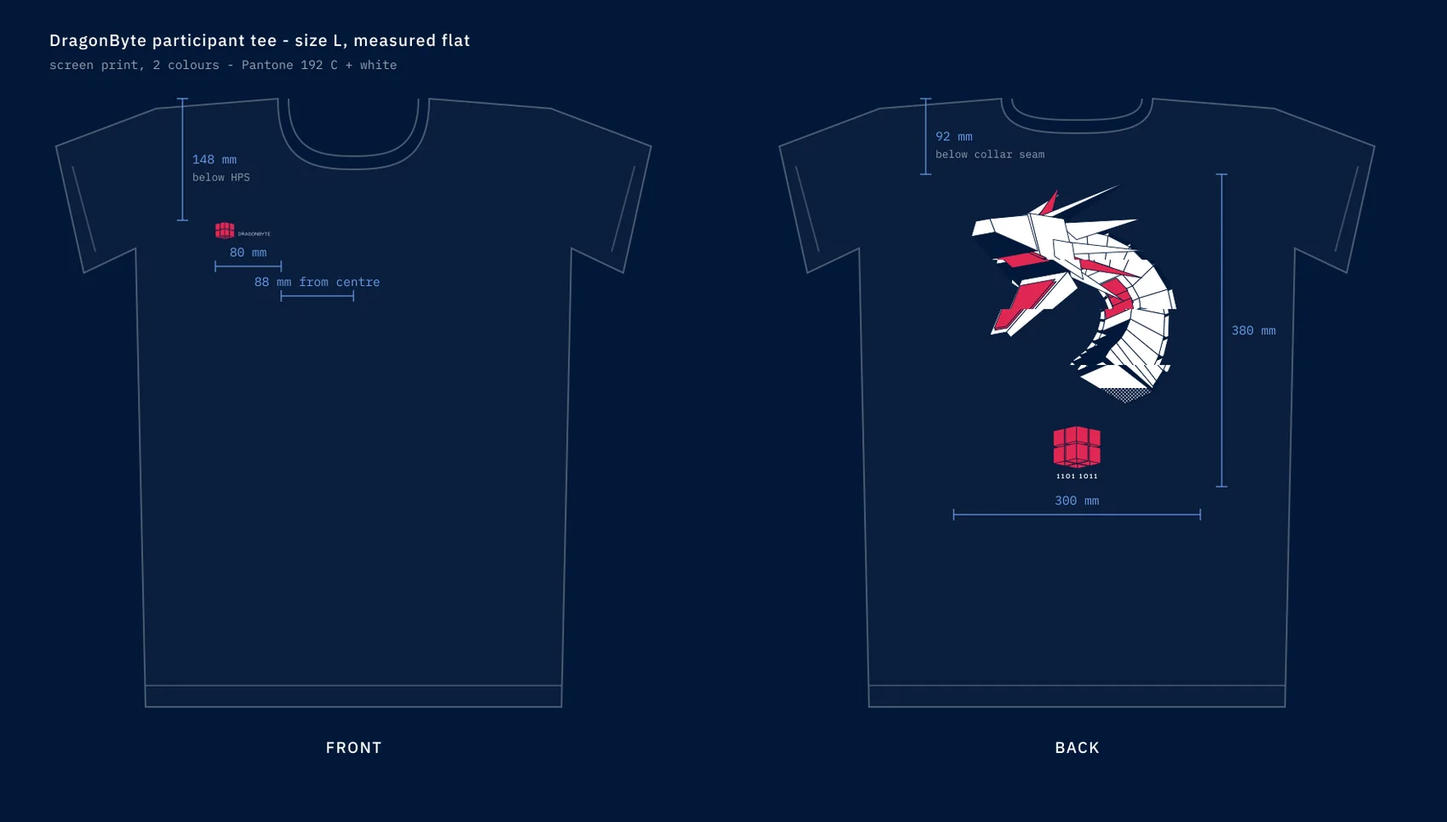
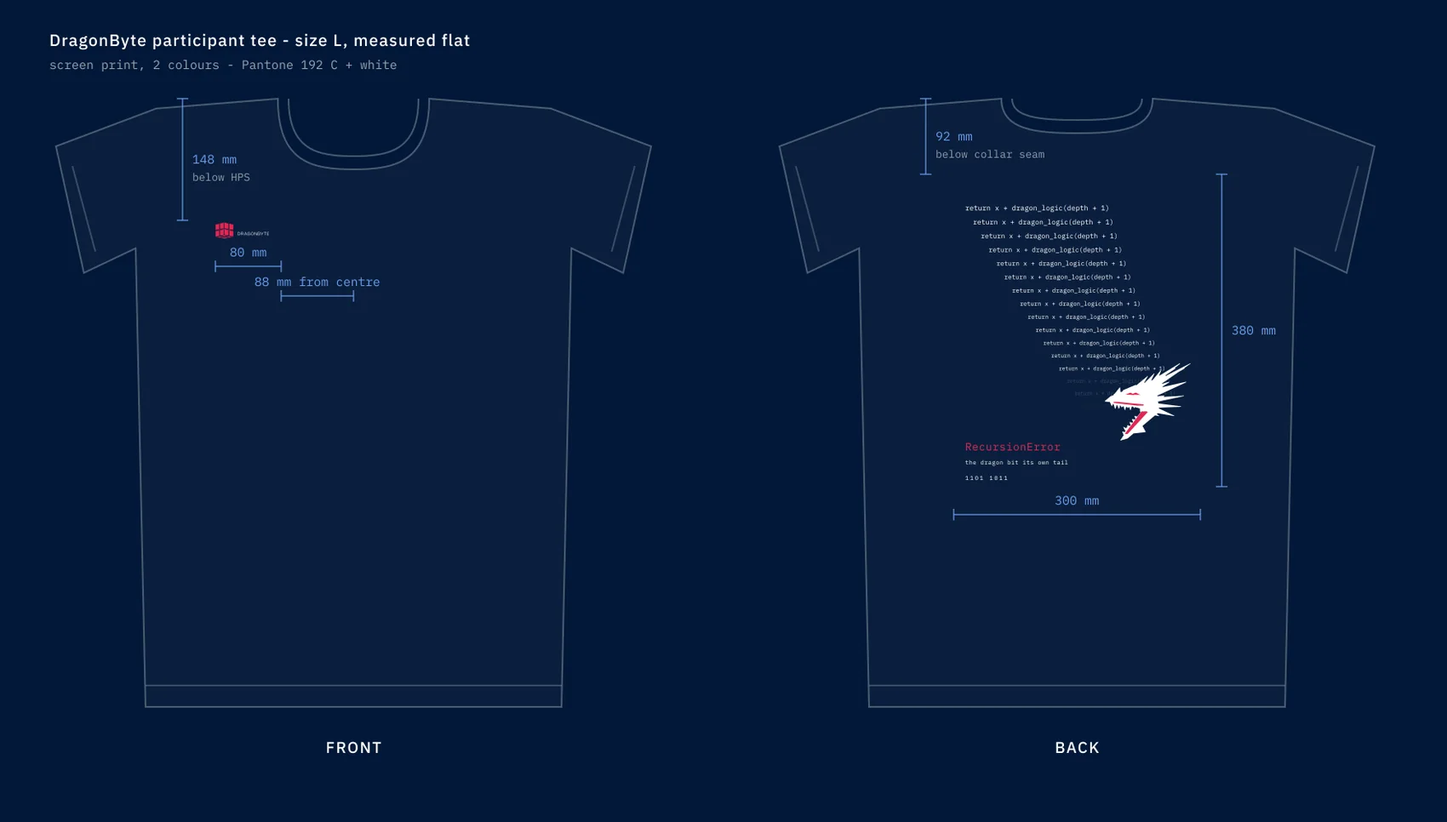
wincentdragonbyte: tričko po novom - grafikou je vtip, zásobník volaní a hlava draka
Claude-Session: https://claude.ai/code/session_01H8JWfyXzGm1E99R4ciV8hV

Changed region(s): [[0.6547, 0.2174, 0.8106, 0.5901], [0.1559, 0.2795, 0.1871, 0.3106]]

diff --git a/wincentdragonbyte/index.html b/wincentdragonbyte/index.html
@@ -304,13 +304,13 @@ footer{border-top:1px solid var(--line);padding:28px 0 44px;font-size:14px;line-
 <section id="task-2" class="dark"><div class="wrap sec">
 <span class="mono kick">Task 2 · T-shirt</span>
 <h2 class="" style="margin:0;width:calc(9.1795 * clamp(28px, 3.3vw, 44px));max-width:100%"><svg role="img" aria-label="Merchandise people actually wear." viewBox="0 0 9180 2080" style="display:block;width:100%;height:auto;overflow:visible"><path fill="rgba(255,255,255,.88)" d="M857.2 65V780H780.2V136L503.8 780H397.2L123.8 136.2V780H48.2V65H175L451.5 717.5L730.8 65Z M1435.8 603Q1424.2 648.5 1401.8 684.1Q1379.2 719.8 1347.8 744.4Q1316.2 769 1276.5 782Q1236.8 795 1190.5 795Q1151 795 1116 785.5Q1081 776 1051.6 758.1Q1022.2 740.2 998.9 714.6Q975.5 689 959.4 656.6Q943.2 624.2 934.6 585.6Q926 547 926 503.5Q926 460 934.5 421.8Q943 383.5 959 351.2Q975 319 998.1 293.5Q1021.2 268 1050.2 250.2Q1079.2 232.5 1113.9 223.1Q1148.5 213.8 1187.8 213.8Q1243.5 213.8 1289.5 233.4Q1335.5 253 1368.5 289.4Q1401.5 325.8 1419.8 377.6Q1438 429.5 1438 494Q1438 502.5 1437.8 511.2Q1437.5 520 1436.5 530H1001.2Q1004.5 575.2 1019.2 611.8Q1034 648.2 1058.8 674Q1083.5 699.8 1117.2 713.5Q1151 727.2 1192.2 727.2Q1254.2 727.2 1296.5 695.9Q1338.8 664.5 1361.2 603ZM1362.2 465Q1358.8 421.5 1344.9 387.4Q1331 353.2 1308.5 329.8Q1286 306.2 1255.5 293.9Q1225 281.5 1188 281.5Q1149.2 281.5 1117.2 294.2Q1085.2 307 1061.2 330.8Q1037.2 354.5 1022.2 388.5Q1007.2 422.5 1002.5 465Z M1578.8 780H1504.2V228.8H1578.8V408.5Q1588.2 365.5 1606.6 332.1Q1625 298.8 1652.1 275.8Q1679.2 252.8 1715.2 240.8Q1751.2 228.8 1795.8 228.8H1820.8V300.5H1795.8Q1737 300.5 1695.6 313.4Q1654.2 326.2 1628.4 352.4Q1602.5 378.5 1590.6 417.6Q1578.8 456.8 1578.8 509.2Z M1921 504.2Q1921 555.5 1934.2 596.9Q1947.5 638.2 1972.1 667.1Q1996.8 696 2031.6 711.6Q2066.5 727.2 2109.5 727.2Q2146 727.2 2175 716.2Q2204 705.2 2225.5 685.6Q2247 666 2261.1 639Q2275.2 612 2282 579.8H2356.5Q2348.8 626.5 2328.8 665.9Q2308.8 705.2 2277.4 734Q2246 762.8 2203.8 778.9Q2161.5 795 2109.2 795Q2070 795 2035.1 785.6Q2000.2 776.2 1971.1 758.4Q1942 740.5 1918.9 715Q1895.8 689.5 1879.6 657.1Q1863.5 624.8 1855 586.2Q1846.5 547.8 1846.5 504.2Q1846.5 460.8 1855 422.2Q1863.5 383.8 1879.6 351.5Q1895.8 319.2 1918.9 293.6Q1942 268 1971.1 250.2Q2000.2 232.5 2035.1 223.1Q2070 213.8 2109.2 213.8Q2161.5 213.8 2203.6 229.9Q2245.8 246 2277.1 274.5Q2308.5 303 2328.5 342.4Q2348.5 381.8 2356.2 428.2H2281.8Q2275 396.2 2260.9 369.2Q2246.8 342.2 2225.2 322.8Q2203.8 303.2 2174.9 292.4Q2146 281.5 2109.5 281.5Q2066.5 281.5 2031.6 297Q1996.8 312.5 1972.1 341.5Q1947.5 370.5 1934.2 411.6Q1921 452.8 1921 504.2Z M2497.2 780H2422.8V40H2497.2V392.5Q2507.5 351.5 2527.2 318.4Q2547 285.2 2574.5 262Q2602 238.8 2636.5 226.2Q2671 213.8 2711 213.8Q2758.5 213.8 2796.4 231.5Q2834.2 249.2 2860.9 282.4Q2887.5 315.5 2901.8 362.6Q2916 409.8 2916 468.5V780H2841.5V468.5Q2841.5 423.5 2831 388.6Q2820.5 353.8 2800.2 329.9Q2780 306 2750.2 293.8Q2720.5 281.5 2681.8 281.5Q2639.8 281.5 2605.8 295.6Q2571.8 309.8 2547.6 335.8Q2523.5 361.8 2510.4 398.6Q2497.2 435.5 2497.2 481Z M2992.8 412.5Q2992.8 367.2 3009.9 330.5Q3027 293.8 3058.8 267.9Q3090.5 242 3135.6 228Q3180.8 214 3236.5 214Q3296.2 214 3343.6 230.4Q3391 246.8 3424 277.5Q3457 308.2 3474.5 352.6Q3492 397 3492 453.2V780H3417.5V626.2Q3407.2 664 3384.8 695Q3362.2 726 3330.1 748.2Q3298 770.5 3257.9 782.8Q3217.8 795 3172.5 795Q3128.2 795 3092 783.2Q3055.8 771.5 3030.1 750.1Q3004.5 728.8 2990.5 698.6Q2976.5 668.5 2976.5 631.5Q2976.5 594.5 2991 565.6Q3005.5 536.8 3033.2 517Q3061 497.2 3101.6 487Q3142.2 476.8 3194.8 476.8H3417.5V453.2Q3417.5 413.2 3405 381.4Q3392.5 349.5 3369 327.4Q3345.5 305.2 3311.6 293.5Q3277.8 281.8 3235.2 281.8Q3194 281.8 3162.6 291.1Q3131.2 300.5 3110.1 317.5Q3089 334.5 3078.1 358.6Q3067.2 382.8 3067.2 412.5ZM3194.2 540Q3121.8 540 3085.9 562.2Q3050 584.5 3050 629.5Q3050 653 3059.5 671.6Q3069 690.2 3087.1 703.1Q3105.2 716 3131.5 722.8Q3157.8 729.5 3191.2 729.5Q3222.8 729.5 3251.8 723.6Q3280.8 717.8 3305.9 707.1Q3331 696.5 3351.6 681.5Q3372.2 666.5 3386.9 648.1Q3401.5 629.8 3409.5 608.6Q3417.5 587.5 3417.5 564.8V540Z M3643.8 780H3569.2V228.8H3643.8V392.5Q3654 351.5 3673.6 318.4Q3693.2 285.2 3720.9 262Q3748.5 238.8 3783 226.2Q3817.5 213.8 3857.2 213.8Q3904.8 213.8 3942.8 231.5Q3980.8 249.2 4007.4 282.4Q4034 315.5 4048.2 362.6Q4062.5 409.8 4062.5 468.5V780H3988V468.5Q3988 423.5 3977.5 388.6Q3967 353.8 3946.8 329.9Q3926.5 306 3896.6 293.8Q3866.8 281.5 3828 281.5Q3786.2 281.5 3752.2 295.6Q3718.2 309.8 3694.1 335.8Q3670 361.8 3656.9 398.6Q3643.8 435.5 3643.8 481Z M4647 40V780H4572.5V602.8Q4562 646.8 4542.2 682.2Q4522.5 717.8 4495.1 742.9Q4467.8 768 4433.4 781.5Q4399 795 4359.5 795Q4325.2 795 4294.6 785.4Q4264 775.8 4238.1 757.6Q4212.2 739.5 4191.5 713.6Q4170.8 687.8 4156.2 655.5Q4141.8 623.2 4134 585.1Q4126.2 547 4126.2 504.2Q4126.2 461.5 4134 423.4Q4141.8 385.2 4156.2 353Q4170.8 320.8 4191.5 295Q4212.2 269.2 4238.1 251.1Q4264 233 4294.6 223.4Q4325.2 213.8 4359.5 213.8Q4399 213.8 4433.4 227.2Q4467.8 240.8 4495.1 265.9Q4522.5 291 4542.2 326.4Q4562 361.8 4572.5 405.8V40ZM4572.5 504.2Q4572.5 453.2 4559 411.9Q4545.5 370.5 4520.8 341.1Q4496 311.8 4461 295.8Q4426 279.8 4383 279.8Q4340 279.8 4306.1 295Q4272.2 310.2 4248.9 339.1Q4225.5 368 4213.1 409.6Q4200.8 451.2 4200.8 504.2Q4200.8 557.2 4213.1 599Q4225.5 640.8 4249 669.6Q4272.5 698.5 4306.2 713.8Q4340 729 4383 729Q4426 729 4461 713Q4496 697 4520.8 667.5Q4545.5 638 4559 596.6Q4572.5 555.2 4572.5 504.2Z M4807.5 150H4720V48.2H4807.5ZM4801 780H4726.5V228.8H4801Z M5096.5 213.8Q5149 213.8 5191.2 226Q5233.5 238.2 5263.2 260.9Q5293 283.5 5309.1 315.6Q5325.2 347.8 5325.2 387.2H5252.5Q5252.5 362.8 5241.4 342.8Q5230.2 322.8 5209.9 308.5Q5189.5 294.2 5160.6 286.5Q5131.8 278.8 5096.5 278.8Q5063.8 278.8 5035.6 285.6Q5007.5 292.5 4986.9 305Q4966.2 317.5 4954.6 335.1Q4943 352.8 4943 374.2Q4943 389.8 4949.1 401.4Q4955.2 413 4965.9 421.5Q4976.5 430 4990.9 436Q5005.2 442 5021.8 446.4Q5038.2 450.8 5056.4 454Q5074.5 457.2 5092.2 460L5127 465.5Q5150.2 469.2 5175.5 473.9Q5200.8 478.5 5225 486Q5249.2 493.5 5271.2 504.8Q5293.2 516 5309.8 532.8Q5326.2 549.5 5336 572.9Q5345.8 596.2 5345.8 628Q5345.8 668 5329.5 699Q5313.2 730 5282.4 751.4Q5251.5 772.8 5206.9 783.9Q5162.2 795 5105.5 795Q5046.8 795 5001.1 783.1Q4955.5 771.2 4924.2 748.6Q4893 726 4876.6 692.9Q4860.2 659.8 4860.2 617.2H4933.2Q4933.2 644.2 4944.6 665.1Q4956 686 4977.9 700.5Q4999.8 715 5031.8 722.5Q5063.8 730 5105.2 730Q5143.8 730 5174.8 723.4Q5205.8 716.8 5227.6 704Q5249.5 691.2 5261.2 672.5Q5273 653.8 5273 629.8Q5273 611.5 5266.5 597.9Q5260 584.2 5248.5 574.2Q5237 564.2 5221.5 557.1Q5206 550 5188 544.9Q5170 539.8 5150.2 536Q5130.5 532.2 5110.8 529L5076.5 523.2Q5054.5 519.5 5030.8 515Q5007 510.5 4984 503.5Q4961 496.5 4940.4 486.2Q4919.8 476 4904.1 460.9Q4888.5 445.8 4879.2 425Q4870 404.2 4870 376Q4870 339 4886.4 309Q4902.8 279 4932.5 257.9Q4962.2 236.8 5004 225.2Q5045.8 213.8 5096.5 213.8Z M5899.8 603Q5888.2 648.5 5865.8 684.1Q5843.2 719.8 5811.8 744.4Q5780.2 769 5740.5 782Q5700.8 795 5654.5 795Q5615 795 5580 785.5Q5545 776 5515.6 758.1Q5486.2 740.2 5462.9 714.6Q5439.5 689 5423.4 656.6Q5407.2 624.2 5398.6 585.6Q5390 547 5390 503.5Q5390 460 5398.5 421.8Q5407 383.5 5423 351.2Q5439 319 5462.1 293.5Q5485.2 268 5514.2 250.2Q5543.2 232.5 5577.9 223.1Q5612.5 213.8 5651.8 213.8Q5707.5 213.8 5753.5 233.4Q5799.5 253 5832.5 289.4Q5865.5 325.8 5883.8 377.6Q5902 429.5 5902 494Q5902 502.5 5901.8 511.2Q5901.5 520 5900.5 530H5465.2Q5468.5 575.2 5483.2 611.8Q5498 648.2 5522.8 674Q5547.5 699.8 5581.2 713.5Q5615 727.2 5656.2 727.2Q5718.2 727.2 5760.5 695.9Q5802.8 664.5 5825.2 603ZM5826.2 465Q5822.8 421.5 5808.9 387.4Q5795 353.2 5772.5 329.8Q5750 306.2 5719.5 293.9Q5689 281.5 5652 281.5Q5613.2 281.5 5581.2 294.2Q5549.2 307 5525.2 330.8Q5501.2 354.5 5486.2 388.5Q5471.2 422.5 5466.5 465Z M6250.8 405.8Q6261.2 361.8 6281 326.4Q6300.8 291 6328.1 265.9Q6355.5 240.8 6389.9 227.2Q6424.2 213.8 6463.8 213.8Q6498 213.8 6528.6 223.4Q6559.2 233 6585.1 251.1Q6611 269.2 6631.8 295Q6652.5 320.8 6667 353Q6681.5 385.2 6689.2 423.4Q6697 461.5 6697 504.2Q6697 547 6689.2 585.1Q6681.5 623.2 6667 655.5Q6652.5 687.8 6631.8 713.6Q6611 739.5 6585.1 757.6Q6559.2 775.8 6528.6 785.4Q6498 795 6463.8 795Q6424.2 795 6389.9 781.5Q6355.5 768 6328.1 742.9Q6300.8 717.8 6281 682.2Q6261.2 646.8 6250.8 602.8V968.8H6176.2V228.8H6250.8ZM6250.8 504.2Q6250.8 555.2 6264.2 596.6Q6277.8 638 6302.6 667.5Q6327.5 697 6362.5 713Q6397.5 729 6440.5 729Q6483.5 729 6517.2 713.8Q6551 698.5 6574.4 669.6Q6597.8 640.8 6610.1 599Q6622.5 557.2 6622.5 504.2Q6622.5 451.2 6610.1 409.6Q6597.8 368 6574.4 339.1Q6551 310.2 6517.2 295Q6483.5 279.8 6440.5 279.8Q6397.5 279.8 6362.5 295.8Q6327.5 311.8 6302.6 341.1Q6277.8 370.5 6264.2 411.9Q6250.8 453.2 6250.8 504.2Z M7259.8 603Q7248.2 648.5 7225.8 684.1Q7203.2 719.8 7171.8 744.4Q7140.2 769 7100.5 782Q7060.8 795 7014.5 795Q6975 795 6940 785.5Q6905 776 6875.6 758.1Q6846.2 740.2 6822.9 714.6Q6799.5 689 6783.4 656.6Q6767.2 624.2 6758.6 585.6Q6750 547 6750 503.5Q6750 460 6758.5 421.8Q6767 383.5 6783 351.2Q6799 319 6822.1 293.5Q6845.2 268 6874.2 250.2Q6903.2 232.5 6937.9 223.1Q6972.5 213.8 7011.8 213.8Q7067.5 213.8 7113.5 233.4Q7159.5 253 7192.5 289.4Q7225.5 325.8 7243.8 377.6Q7262 429.5 7262 494Q7262 502.5 7261.8 511.2Q7261.5 520 7260.5 530H6825.2Q6828.5 575.2 6843.2 611.8Q6858 648.2 6882.8 674Q6907.5 699.8 6941.2 713.5Q6975 727.2 7016.2 727.2Q7078.2 727.2 7120.5 695.9Q7162.8 664.5 7185.2 603ZM7186.2 465Q7182.8 421.5 7168.9 387.4Q7155 353.2 7132.5 329.8Q7110 306.2 7079.5 293.9Q7049 281.5 7012 281.5Q6973.2 281.5 6941.2 294.2Q6909.2 307 6885.2 330.8Q6861.2 354.5 6846.2 388.5Q6831.2 422.5 6826.5 465Z M7315 504.2Q7315 460.8 7323.5 422.2Q7332 383.8 7348.1 351.5Q7364.2 319.2 7387.4 293.6Q7410.5 268 7439.8 250.2Q7469 232.5 7503.8 223.1Q7538.5 213.8 7578 213.8Q7617.5 213.8 7652.2 223.1Q7687 232.5 7716.1 250.2Q7745.2 268 7768.4 293.6Q7791.5 319.2 7807.6 351.5Q7823.8 383.8 7832.2 422.2Q7840.8 460.8 7840.8 504.2Q7840.8 547.8 7832.2 586.2Q7823.8 624.8 7807.6 657.1Q7791.5 689.5 7768.4 715Q7745.2 740.5 7716.1 758.4Q7687 776.2 7652.2 785.6Q7617.5 795 7578 795Q7538.8 795 7503.9 785.6Q7469 776.2 7439.8 758.4Q7410.5 740.5 7387.4 715Q7364.2 689.5 7348.1 657.1Q7332 624.8 7323.5 586.2Q7315 547.8 7315 504.2ZM7389.5 504.2Q7389.5 555.5 7402.8 596.9Q7416 638.2 7440.6 667.1Q7465.2 696 7500.1 711.6Q7535 727.2 7578 727.2Q7621.2 727.2 7656 711.6Q7690.8 696 7715.2 667.1Q7739.8 638.2 7753 596.9Q7766.2 555.5 7766.2 504.2Q7766.2 452.8 7753 411.6Q7739.8 370.5 7715.2 341.5Q7690.8 312.5 7656 297Q7621.2 281.5 7578 281.5Q7535 281.5 7500.1 297Q7465.2 312.5 7440.6 341.5Q7416 370.5 7402.8 411.6Q7389.5 452.8 7389.5 504.2Z M7981.5 405.8Q7992 361.8 8011.8 326.4Q8031.5 291 8058.9 265.9Q8086.2 240.8 8120.6 227.2Q8155 213.8 8194.5 213.8Q8228.8 213.8 8259.4 223.4Q8290 233 8315.9 251.1Q8341.8 269.2 8362.5 295Q8383.2 320.8 8397.8 353Q8412.2 385.2 8420 423.4Q8427.8 461.5 8427.8 504.2Q8427.8 547 8420 585.1Q8412.2 623.2 8397.8 655.5Q8383.2 687.8 8362.5 713.6Q8341.8 739.5 8315.9 757.6Q8290 775.8 8259.4 785.4Q8228.8 795 8194.5 795Q8155 795 8120.6 781.5Q8086.2 768 8058.9 742.9Q8031.5 717.8 8011.8 682.2Q7992 646.8 7981.5 602.8V968.8H7907V228.8H7981.5ZM7981.5 504.2Q7981.5 555.2 7995 596.6Q8008.5 638 8033.4 667.5Q8058.2 697 8093.2 713Q8128.2 729 8171.2 729Q8214.2 729 8248 713.8Q8281.8 698.5 8305.1 669.6Q8328.5 640.8 8340.9 599Q8353.2 557.2 8353.2 504.2Q8353.2 451.2 8340.9 409.6Q8328.5 368 8305.1 339.1Q8281.8 310.2 8248 295Q8214.2 279.8 8171.2 279.8Q8128.2 279.8 8093.2 295.8Q8058.2 311.8 8033.4 341.1Q8008.5 370.5 7995 411.9Q7981.5 453.2 7981.5 504.2Z M8568.8 780H8494.2V40H8568.8Z M9144.8 603Q9133.2 648.5 9110.8 684.1Q9088.2 719.8 9056.8 744.4Q9025.2 769 8985.5 782Q8945.8 795 8899.5 795Q8860 795 8825 785.5Q8790 776 8760.6 758.1Q8731.2 740.2 8707.9 714.6Q8684.5 689 8668.4 656.6Q8652.2 624.2 8643.6 585.6Q8635 547 8635 503.5Q8635 460 8643.5 421.8Q8652 383.5 8668 351.2Q8684 319 8707.1 293.5Q8730.2 268 8759.2 250.2Q8788.2 232.5 8822.9 223.1Q8857.5 213.8 8896.8 213.8Q8952.5 213.8 8998.5 233.4Q9044.5 253 9077.5 289.4Q9110.5 325.8 9128.8 377.6Q9147 429.5 9147 494Q9147 502.5 9146.8 511.2Q9146.5 520 9145.5 530H8710.2Q8713.5 575.2 8728.2 611.8Q8743 648.2 8767.8 674Q8792.5 699.8 8826.2 713.5Q8860 727.2 8901.2 727.2Q8963.2 727.2 9005.5 695.9Q9047.8 664.5 9070.2 603ZM9071.2 465Q9067.8 421.5 9053.9 387.4Q9040 353.2 9017.5 329.8Q8995 306.2 8964.5 293.9Q8934 281.5 8897 281.5Q8858.2 281.5 8826.2 294.2Q8794.2 307 8770.2 330.8Q8746.2 354.5 8731.2 388.5Q8716.2 422.5 8711.5 465Z"/><path fill="#E02753" d="M29.2 1475.8Q29.2 1424.2 48.1 1383.2Q67 1342.2 102.2 1313.4Q137.5 1284.5 187.9 1269.1Q238.2 1253.8 301.2 1253.8Q365.5 1253.8 415.8 1269.9Q466 1286 500.8 1316.6Q535.5 1347.2 553.8 1391.8Q572 1436.2 572 1493V1820H398V1682.5Q389.2 1717.8 370.9 1746Q352.5 1774.2 326.1 1794Q299.8 1813.8 266.4 1824.4Q233 1835 194.2 1835Q153.5 1835 120.1 1823.4Q86.8 1811.8 62.9 1790.6Q39 1769.5 26 1739.9Q13 1710.2 13 1674Q13 1634.2 28.9 1602.9Q44.8 1571.5 75.1 1550Q105.5 1528.5 149.4 1517.1Q193.2 1505.8 249 1505.8H398V1493Q398 1467.2 391.4 1447.1Q384.8 1427 371.9 1413.1Q359 1399.2 340.2 1392Q321.5 1384.8 297 1384.8Q272.5 1384.8 254.8 1391Q237 1397.2 225.4 1408.9Q213.8 1420.5 208.1 1437.4Q202.5 1454.2 202.5 1475.8ZM272.5 1599.8Q230.5 1599.8 209.1 1613.6Q187.8 1627.5 187.8 1654.8Q187.8 1682 209 1697Q230.2 1712 269.2 1712Q296.8 1712 320.2 1704.6Q343.8 1697.2 361 1684.5Q378.2 1671.8 388.1 1654.2Q398 1636.8 398 1616.5V1599.8Z M778 1544.2Q778 1578.5 785.2 1604.9Q792.5 1631.2 806.4 1649.1Q820.2 1667 840.6 1676.1Q861 1685.2 887 1685.2Q908.5 1685.2 924.8 1679Q941 1672.8 952.8 1661.2Q964.5 1649.8 972 1633.5Q979.5 1617.2 983.2 1597.2H1156.5Q1150 1650.5 1127.8 1694.2Q1105.5 1738 1070.4 1769.4Q1035.2 1800.8 988.8 1817.9Q942.2 1835 887 1835Q845.5 1835 808.2 1825.8Q771 1816.5 739.4 1798.9Q707.8 1781.2 682.4 1755.9Q657 1730.5 639.2 1698.2Q621.5 1666 612 1627.2Q602.5 1588.5 602.5 1544.2Q602.5 1500 612 1461.4Q621.5 1422.8 639.2 1390.4Q657 1358 682.4 1332.6Q707.8 1307.2 739.4 1289.8Q771 1272.2 808.2 1263Q845.5 1253.8 887 1253.8Q942.2 1253.8 988.9 1270.9Q1035.5 1288 1070.5 1319.2Q1105.5 1350.5 1127.8 1394.4Q1150 1438.2 1156.5 1491.5H983.2Q979.5 1471.5 972 1455.2Q964.5 1439 952.8 1427.5Q941 1416 924.8 1409.8Q908.5 1403.5 887 1403.5Q861 1403.5 840.6 1412.6Q820.2 1421.8 806.4 1439.5Q792.5 1457.2 785.2 1483.6Q778 1510 778 1544.2Z M1553 1815.8Q1516.2 1825.2 1484.4 1830.1Q1452.5 1835 1424.5 1835Q1329.5 1835 1281 1779.8Q1232.5 1724.5 1232.5 1615.2V1404.8H1166.5V1268.8H1232.5V1141.8H1406.5V1268.8H1553V1404.8H1406.5V1615.5Q1406.5 1659.2 1422.4 1679.2Q1438.2 1699.2 1473.5 1699.2Q1488 1699.2 1507.2 1696Q1526.5 1692.8 1553 1686.2Z M1948.2 1268.8H2122.2V1820H1948.2V1651.2Q1932 1742.2 1884.5 1788.6Q1837 1835 1760 1835Q1673.5 1835 1629.6 1774.6Q1585.8 1714.2 1585.8 1595V1268.8H1759.8V1557.5Q1759.8 1621.8 1782 1653.5Q1804.2 1685.2 1849.8 1685.2Q1897.8 1685.2 1923 1651.9Q1948.2 1618.5 1948.2 1553.5Z M2167.5 1475.8Q2167.5 1424.2 2186.4 1383.2Q2205.2 1342.2 2240.5 1313.4Q2275.8 1284.5 2326.1 1269.1Q2376.5 1253.8 2439.5 1253.8Q2503.8 1253.8 2554 1269.9Q2604.2 1286 2639 1316.6Q2673.8 1347.2 2692 1391.8Q2710.2 1436.2 2710.2 1493V1820H2536.2V1682.5Q2527.5 1717.8 2509.1 1746Q2490.8 1774.2 2464.4 1794Q2438 1813.8 2404.6 1824.4Q2371.2 1835 2332.5 1835Q2291.8 1835 2258.4 1823.4Q2225 1811.8 2201.1 1790.6Q2177.2 1769.5 2164.2 1739.9Q2151.2 1710.2 2151.2 1674Q2151.2 1634.2 2167.1 1602.9Q2183 1571.5 2213.4 1550Q2243.8 1528.5 2287.6 1517.1Q2331.5 1505.8 2387.2 1505.8H2536.2V1493Q2536.2 1467.2 2529.6 1447.1Q2523 1427 2510.1 1413.1Q2497.2 1399.2 2478.5 1392Q2459.8 1384.8 2435.2 1384.8Q2410.8 1384.8 2393 1391Q2375.2 1397.2 2363.6 1408.9Q2352 1420.5 2346.4 1437.4Q2340.8 1454.2 2340.8 1475.8ZM2410.8 1599.8Q2368.8 1599.8 2347.4 1613.6Q2326 1627.5 2326 1654.8Q2326 1682 2347.2 1697Q2368.5 1712 2407.5 1712Q2435 1712 2458.5 1704.6Q2482 1697.2 2499.2 1684.5Q2516.5 1671.8 2526.4 1654.2Q2536.2 1636.8 2536.2 1616.5V1599.8Z M2925.8 1820H2751.8V1080H2925.8Z M3143.8 1820H2969.8V1080H3143.8Z M3751 1268.8 3549.5 1826Q3531 1877.5 3505.9 1915Q3480.8 1952.5 3447.8 1976.9Q3414.8 2001.2 3373 2012.9Q3331.2 2024.5 3279.8 2024.5Q3236 2024.5 3184.2 2015.5V1878Q3203.5 1880.8 3219.4 1882.1Q3235.2 1883.5 3249.5 1883.5Q3269.2 1883.5 3285.8 1880.8Q3302.2 1878 3316.1 1872.4Q3330 1866.8 3341.6 1857.9Q3353.2 1849 3363 1836.5L3161.5 1268.8H3345.2L3457.5 1689.8L3571.2 1268.8Z M4546.8 1268.8 4627 1700.5 4717 1268.8H4887L4753.2 1820H4511.8L4429.2 1386.2L4346.8 1820H4105.2L3971.5 1268.8H4149.2L4238.8 1707.2L4319.8 1268.8Z M5429.5 1631.2Q5418 1678.8 5393.5 1716.5Q5369 1754.2 5334 1780.6Q5299 1807 5254.6 1821Q5210.2 1835 5159.2 1835Q5117.2 1835 5080 1825.5Q5042.8 1816 5011.4 1798.1Q4980 1780.2 4955.1 1754.6Q4930.2 1729 4912.9 1696.6Q4895.5 1664.2 4886.2 1625.8Q4877 1587.2 4877 1544Q4877 1500.8 4886.1 1462.4Q4895.2 1424 4912.4 1391.8Q4929.5 1359.5 4954.1 1333.9Q4978.8 1308.2 5009.9 1290.5Q5041 1272.8 5077.9 1263.2Q5114.8 1253.8 5156.2 1253.8Q5197.8 1253.8 5234.2 1263.1Q5270.8 1272.5 5301.4 1290.1Q5332 1307.8 5356.2 1333.2Q5380.5 1358.8 5397.4 1391Q5414.2 1423.2 5423.1 1461.6Q5432 1500 5432 1543.5Q5432 1564.2 5429.8 1585H5042.2Q5045.5 1612.5 5055.2 1634Q5065 1655.5 5080.5 1670.4Q5096 1685.2 5117.1 1693.1Q5138.2 1701 5164.2 1701Q5202.8 1701 5228.6 1683.6Q5254.5 1666.2 5269.2 1631.2ZM5268.5 1490Q5250.8 1384.8 5157.5 1384.8Q5109.5 1384.8 5080.6 1411.8Q5051.8 1438.8 5043.8 1490Z M5461.2 1475.8Q5461.2 1424.2 5480.1 1383.2Q5499 1342.2 5534.2 1313.4Q5569.5 1284.5 5619.9 1269.1Q5670.2 1253.8 5733.2 1253.8Q5797.5 1253.8 5847.8 1269.9Q5898 1286 5932.8 1316.6Q5967.5 1347.2 5985.8 1391.8Q6004 1436.2 6004 1493V1820H5830V1682.5Q5821.2 1717.8 5802.9 1746Q5784.5 1774.2 5758.1 1794Q5731.8 1813.8 5698.4 1824.4Q5665 1835 5626.2 1835Q5585.5 1835 5552.1 1823.4Q5518.8 1811.8 5494.9 1790.6Q5471 1769.5 5458 1739.9Q5445 1710.2 5445 1674Q5445 1634.2 5460.9 1602.9Q5476.8 1571.5 5507.1 1550Q5537.5 1528.5 5581.4 1517.1Q5625.2 1505.8 5681 1505.8H5830V1493Q5830 1467.2 5823.4 1447.1Q5816.8 1427 5803.9 1413.1Q5791 1399.2 5772.2 1392Q5753.5 1384.8 5729 1384.8Q5704.5 1384.8 5686.8 1391Q5669 1397.2 5657.4 1408.9Q5645.8 1420.5 5640.1 1437.4Q5634.5 1454.2 5634.5 1475.8ZM5704.5 1599.8Q5662.5 1599.8 5641.1 1613.6Q5619.8 1627.5 5619.8 1654.8Q5619.8 1682 5641 1697Q5662.2 1712 5701.2 1712Q5728.8 1712 5752.2 1704.6Q5775.8 1697.2 5793 1684.5Q5810.2 1671.8 5820.1 1654.2Q5830 1636.8 5830 1616.5V1599.8Z M6219.5 1820H6045.5V1268.8H6219.5V1468Q6226 1422.2 6238.6 1385.4Q6251.2 1348.5 6271.8 1322.6Q6292.2 1296.8 6321.2 1282.8Q6350.2 1268.8 6389.2 1268.8H6426V1431.8H6351.5Q6312.8 1431.8 6287.2 1440.5Q6261.8 1449.2 6246.8 1467.2Q6231.8 1485.2 6225.6 1513Q6219.5 1540.8 6219.5 1578.8Z M6574.2 1820H6406.2V1646H6574.2Z"/></svg></h2>
-<p class="intro">A tee for the people who take part, built so it outlives the edition. The front carries only the byte and the name. The back carries Byte itself, drawn straight out of the same 3D block-out as the hero mascot and separated into two screens.</p>
-<figure class="shot"><img width="1700" height="1175" loading="lazy" src="assets/tee-art.webp" alt="Back print: the dragon head and neck as white and red plates with a halftone dissolve, the byte below it, and the left-chest mark"></figure>
+<p class="intro">A tee for the people who take part, built so it outlives the edition. The front carries only the byte and the name. The back carries the joke itself: the recursive call from the sandbox, repeated and indented until the stack runs out, with Byte's head where it ends.</p>
+<figure class="shot"><img width="1700" height="1175" loading="lazy" src="assets/tee-art.webp" alt="Back print: one line of code repeated and indented down the shirt until it dissolves into halftone dots, the dragon head biting the last line, and the chest mark"></figure>
 <div class="vgrid">
 <article class="vcard" style="border-color:#E0275347"><span class="num" style="color:#E02753">01</span><h3>Worn after the event</h3><p>No date, no edition number, no sponsor wall. Nothing on the garment ties it to one weekend, so it stays in the rotation. The only clue is 1101 1011 under the byte: 0xDB, for anyone who reads hex.</p></article>
-<article class="vcard" style="border-color:#8B006047"><span class="num" style="color:#8B0060">02</span><h3>Drawn from the model, not traced</h3><p>The back print is the hero mascot projected straight out of its 3D block-out. Every plate is a polygon, so the artwork is vector at any size and the two inks separate cleanly. Nothing was traced off a render.</p></article>
-<article class="vcard" style="border-color:#699DED47"><span class="num" style="color:#699DED">03</span><h3>Two screens, no gradients</h3><p>White and Pantone 192 C on a navy body. Depth comes from a 45 degree halftone at about 8 lines per inch: coarse enough that the dot is visible on purpose, robust enough to hold on cotton.</p></article>
-<article class="vcard" style="border-color:#3054AD47"><span class="num" style="color:#3054AD">04</span><h3>The glitch is the joke</h3><p>Three bands of the artwork slip sideways and the neck dissolves into dots. It is the stack overflow from the hero code, printed. The shirt tells the same joke as the site without repeating a word of it.</p></article>
+<article class="vcard" style="border-color:#8B006047"><span class="num" style="color:#8B0060">02</span><h3>The joke is the graphic</h3><p>The back is one line of the hero snippet, repeated and indented until the call stack runs out and the type dissolves into dots. Anyone who has blown a stack reads it from across the room; nobody else sees a logo.</p></article>
+<article class="vcard" style="border-color:#699DED47"><span class="num" style="color:#699DED">03</span><h3>Byte bites the tail</h3><p>The head is the mascot's own silhouette, taken straight out of the same 3D block-out as the hero and set where the stack ends. The error message says the dragon bit its own tail. The shirt shows it instead of saying it.</p></article>
+<article class="vcard" style="border-color:#3054AD47"><span class="num" style="color:#3054AD">04</span><h3>Two screens, no gradients</h3><p>White and Pantone 192 C on a navy body. The fade at the end of the stack is a real 45 degree halftone at about 8 lines per inch, coarse enough that the dot is visible on purpose and robust enough to hold on cotton.</p></article>
 </div>
 <figure class="process"><img width="1760" height="1000" loading="lazy" src="assets/tee-flats.webp" alt="Technical flat of the front and back with print placement and dimensions"><figcaption><span class="mono">Placement</span>Back print 300 x 380 mm, centred, 92 mm below the collar seam. Chest mark 80 x 26 mm, 148 mm below the high point of the shoulder, 88 mm from centre. Size L shown; the back print scales to 260 mm wide for S and 320 mm for XXL, the chest mark stays 80 mm on every size.</figcaption></figure>
 <div class="build">

diff --git a/wincentdragonbyte/sk/index.html b/wincentdragonbyte/sk/index.html
@@ -304,13 +304,13 @@ footer{border-top:1px solid var(--line);padding:28px 0 44px;font-size:14px;line-
 <section id="task-2" class="dark"><div class="wrap sec">
 <span class="mono kick">Úloha 2 · Tričko</span>
 <h2 class="" style="margin:0;width:calc(8.0793 * clamp(28px, 3.3vw, 44px));max-width:100%"><svg role="img" aria-label="Merch, ktorý ľudia naozaj nosia." viewBox="0 0 8079 2080" style="display:block;width:100%;height:auto;overflow:visible"><path fill="rgba(255,255,255,.88)" d="M857.2 65V780H780.2V136L503.8 780H397.2L123.8 136.2V780H48.2V65H175L451.5 717.5L730.8 65Z M1435.8 603Q1424.2 648.5 1401.8 684.1Q1379.2 719.8 1347.8 744.4Q1316.2 769 1276.5 782Q1236.8 795 1190.5 795Q1151 795 1116 785.5Q1081 776 1051.6 758.1Q1022.2 740.2 998.9 714.6Q975.5 689 959.4 656.6Q943.2 624.2 934.6 585.6Q926 547 926 503.5Q926 460 934.5 421.8Q943 383.5 959 351.2Q975 319 998.1 293.5Q1021.2 268 1050.2 250.2Q1079.2 232.5 1113.9 223.1Q1148.5 213.8 1187.8 213.8Q1243.5 213.8 1289.5 233.4Q1335.5 253 1368.5 289.4Q1401.5 325.8 1419.8 377.6Q1438 429.5 1438 494Q1438 502.5 1437.8 511.2Q1437.5 520 1436.5 530H1001.2Q1004.5 575.2 1019.2 611.8Q1034 648.2 1058.8 674Q1083.5 699.8 1117.2 713.5Q1151 727.2 1192.2 727.2Q1254.2 727.2 1296.5 695.9Q1338.8 664.5 1361.2 603ZM1362.2 465Q1358.8 421.5 1344.9 387.4Q1331 353.2 1308.5 329.8Q1286 306.2 1255.5 293.9Q1225 281.5 1188 281.5Q1149.2 281.5 1117.2 294.2Q1085.2 307 1061.2 330.8Q1037.2 354.5 1022.2 388.5Q1007.2 422.5 1002.5 465Z M1578.8 780H1504.2V228.8H1578.8V408.5Q1588.2 365.5 1606.6 332.1Q1625 298.8 1652.1 275.8Q1679.2 252.8 1715.2 240.8Q1751.2 228.8 1795.8 228.8H1820.8V300.5H1795.8Q1737 300.5 1695.6 313.4Q1654.2 326.2 1628.4 352.4Q1602.5 378.5 1590.6 417.6Q1578.8 456.8 1578.8 509.2Z M1921 504.2Q1921 555.5 1934.2 596.9Q1947.5 638.2 1972.1 667.1Q1996.8 696 2031.6 711.6Q2066.5 727.2 2109.5 727.2Q2146 727.2 2175 716.2Q2204 705.2 2225.5 685.6Q2247 666 2261.1 639Q2275.2 612 2282 579.8H2356.5Q2348.8 626.5 2328.8 665.9Q2308.8 705.2 2277.4 734Q2246 762.8 2203.8 778.9Q2161.5 795 2109.2 795Q2070 795 2035.1 785.6Q2000.2 776.2 1971.1 758.4Q1942 740.5 1918.9 715Q1895.8 689.5 1879.6 657.1Q1863.5 624.8 1855 586.2Q1846.5 547.8 1846.5 504.2Q1846.5 460.8 1855 422.2Q1863.5 383.8 1879.6 351.5Q1895.8 319.2 1918.9 293.6Q1942 268 1971.1 250.2Q2000.2 232.5 2035.1 223.1Q2070 213.8 2109.2 213.8Q2161.5 213.8 2203.6 229.9Q2245.8 246 2277.1 274.5Q2308.5 303 2328.5 342.4Q2348.5 381.8 2356.2 428.2H2281.8Q2275 396.2 2260.9 369.2Q2246.8 342.2 2225.2 322.8Q2203.8 303.2 2174.9 292.4Q2146 281.5 2109.5 281.5Q2066.5 281.5 2031.6 297Q1996.8 312.5 1972.1 341.5Q1947.5 370.5 1934.2 411.6Q1921 452.8 1921 504.2Z M2497.2 780H2422.8V40H2497.2V392.5Q2507.5 351.5 2527.2 318.4Q2547 285.2 2574.5 262Q2602 238.8 2636.5 226.2Q2671 213.8 2711 213.8Q2758.5 213.8 2796.4 231.5Q2834.2 249.2 2860.9 282.4Q2887.5 315.5 2901.8 362.6Q2916 409.8 2916 468.5V780H2841.5V468.5Q2841.5 423.5 2831 388.6Q2820.5 353.8 2800.2 329.9Q2780 306 2750.2 293.8Q2720.5 281.5 2681.8 281.5Q2639.8 281.5 2605.8 295.6Q2571.8 309.8 2547.6 335.8Q2523.5 361.8 2510.4 398.6Q2497.2 435.5 2497.2 481Z M3034.5 969.5H2971.2L3007.5 660H3107.5Z M3526 510.2 3897.5 780H3787.2L3465.5 543.2V780H3391V40H3465.5V479.8L3771.8 228.8H3871Z M4248.8 777.2Q4190.8 794.8 4143.8 794.8Q4066.2 794.8 4025.6 746.8Q3985 698.8 3985 605.8V292H3903.2V228.8H3985V101.8H4059.5V228.8H4248.8V292H4059.5V606Q4059.5 668 4082.8 698Q4106 728 4155.5 728Q4173.5 728 4196.4 724.1Q4219.2 720.2 4248.8 712.2Z M4273.8 504.2Q4273.8 460.8 4282.2 422.2Q4290.8 383.8 4306.9 351.5Q4323 319.2 4346.1 293.6Q4369.2 268 4398.5 250.2Q4427.8 232.5 4462.5 223.1Q4497.2 213.8 4536.8 213.8Q4576.2 213.8 4611 223.1Q4645.8 232.5 4674.9 250.2Q4704 268 4727.1 293.6Q4750.2 319.2 4766.4 351.5Q4782.5 383.8 4791 422.2Q4799.5 460.8 4799.5 504.2Q4799.5 547.8 4791 586.2Q4782.5 624.8 4766.4 657.1Q4750.2 689.5 4727.1 715Q4704 740.5 4674.9 758.4Q4645.8 776.2 4611 785.6Q4576.2 795 4536.8 795Q4497.5 795 4462.6 785.6Q4427.8 776.2 4398.5 758.4Q4369.2 740.5 4346.1 715Q4323 689.5 4306.9 657.1Q4290.8 624.8 4282.2 586.2Q4273.8 547.8 4273.8 504.2ZM4348.2 504.2Q4348.2 555.5 4361.5 596.9Q4374.8 638.2 4399.4 667.1Q4424 696 4458.9 711.6Q4493.8 727.2 4536.8 727.2Q4580 727.2 4614.8 711.6Q4649.5 696 4674 667.1Q4698.5 638.2 4711.8 596.9Q4725 555.5 4725 504.2Q4725 452.8 4711.8 411.6Q4698.5 370.5 4674 341.5Q4649.5 312.5 4614.8 297Q4580 281.5 4536.8 281.5Q4493.8 281.5 4458.9 297Q4424 312.5 4399.4 341.5Q4374.8 370.5 4361.5 411.6Q4348.2 452.8 4348.2 504.2Z M4940.2 780H4865.8V228.8H4940.2V408.5Q4949.8 365.5 4968.1 332.1Q4986.5 298.8 5013.6 275.8Q5040.8 252.8 5076.8 240.8Q5112.8 228.8 5157.2 228.8H5182.2V300.5H5157.2Q5098.5 300.5 5057.1 313.4Q5015.8 326.2 4989.9 352.4Q4964 378.5 4952.1 417.6Q4940.2 456.8 4940.2 509.2Z M5750.2 228.8 5504.5 829Q5488 870 5467.2 899.4Q5446.5 928.8 5420.2 947.8Q5394 966.8 5361.6 975.6Q5329.2 984.5 5289.5 984.5Q5266.5 984.5 5242.5 981.5V915.8Q5256 917.5 5267.4 918.4Q5278.8 919.2 5289.2 919.2Q5315 919.2 5335.5 914.1Q5356 909 5372.4 897.8Q5388.8 886.5 5401.5 868.9Q5414.2 851.2 5424.2 826.2L5438.5 791L5212.5 228.8H5290.2L5480.8 712.5L5674.2 228.8ZM5610 41.5H5535.5L5457 201.2H5511.5Z M6081.5 780H6007V40H6081.5ZM6180.2 277.8H6122.2L6142 40H6215.8Z M6641.5 228.8H6716V780H6641.5V616.2Q6631.2 657.2 6611.5 690.4Q6591.8 723.5 6564.2 746.8Q6536.8 770 6502.2 782.5Q6467.8 795 6427.8 795Q6380.2 795 6342.4 777.2Q6304.5 759.5 6277.9 726.4Q6251.2 693.2 6237 646.1Q6222.8 599 6222.8 540.2V228.8H6297.2V540.2Q6297.2 585.2 6307.8 620.1Q6318.2 655 6338.5 678.9Q6358.8 702.8 6388.6 715Q6418.5 727.2 6457.2 727.2Q6499 727.2 6533 713.1Q6567 699 6591.1 673Q6615.2 647 6628.4 610.1Q6641.5 573.2 6641.5 527.8Z M7303 40V780H7228.5V602.8Q7218 646.8 7198.2 682.2Q7178.5 717.8 7151.1 742.9Q7123.8 768 7089.4 781.5Q7055 795 7015.5 795Q6981.2 795 6950.6 785.4Q6920 775.8 6894.1 757.6Q6868.2 739.5 6847.5 713.6Q6826.8 687.8 6812.2 655.5Q6797.8 623.2 6790 585.1Q6782.2 547 6782.2 504.2Q6782.2 461.5 6790 423.4Q6797.8 385.2 6812.2 353Q6826.8 320.8 6847.5 295Q6868.2 269.2 6894.1 251.1Q6920 233 6950.6 223.4Q6981.2 213.8 7015.5 213.8Q7055 213.8 7089.4 227.2Q7123.8 240.8 7151.1 265.9Q7178.5 291 7198.2 326.4Q7218 361.8 7228.5 405.8V40ZM7228.5 504.2Q7228.5 453.2 7215 411.9Q7201.5 370.5 7176.8 341.1Q7152 311.8 7117 295.8Q7082 279.8 7039 279.8Q6996 279.8 6962.1 295Q6928.2 310.2 6904.9 339.1Q6881.5 368 6869.1 409.6Q6856.8 451.2 6856.8 504.2Q6856.8 557.2 6869.1 599Q6881.5 640.8 6905 669.6Q6928.5 698.5 6962.2 713.8Q6996 729 7039 729Q7082 729 7117 713Q7152 697 7176.8 667.5Q7201.5 638 7215 596.6Q7228.5 555.2 7228.5 504.2Z M7463.5 150H7376V48.2H7463.5ZM7457 780H7382.5V228.8H7457Z M7536.5 412.5Q7536.5 367.2 7553.6 330.5Q7570.8 293.8 7602.5 267.9Q7634.2 242 7679.4 228Q7724.5 214 7780.2 214Q7840 214 7887.4 230.4Q7934.8 246.8 7967.8 277.5Q8000.8 308.2 8018.2 352.6Q8035.8 397 8035.8 453.2V780H7961.2V626.2Q7951 664 7928.5 695Q7906 726 7873.9 748.2Q7841.8 770.5 7801.6 782.8Q7761.5 795 7716.2 795Q7672 795 7635.8 783.2Q7599.5 771.5 7573.9 750.1Q7548.2 728.8 7534.2 698.6Q7520.2 668.5 7520.2 631.5Q7520.2 594.5 7534.8 565.6Q7549.2 536.8 7577 517Q7604.8 497.2 7645.4 487Q7686 476.8 7738.5 476.8H7961.2V453.2Q7961.2 413.2 7948.8 381.4Q7936.2 349.5 7912.8 327.4Q7889.2 305.2 7855.4 293.5Q7821.5 281.8 7779 281.8Q7737.8 281.8 7706.4 291.1Q7675 300.5 7653.9 317.5Q7632.8 334.5 7621.9 358.6Q7611 382.8 7611 412.5ZM7738 540Q7665.5 540 7629.6 562.2Q7593.8 584.5 7593.8 629.5Q7593.8 653 7603.2 671.6Q7612.8 690.2 7630.9 703.1Q7649 716 7675.2 722.8Q7701.5 729.5 7735 729.5Q7766.5 729.5 7795.5 723.6Q7824.5 717.8 7849.6 707.1Q7874.8 696.5 7895.4 681.5Q7916 666.5 7930.6 648.1Q7945.2 629.8 7953.2 608.6Q7961.2 587.5 7961.2 564.8V540Z"/><path fill="#E02753" d="M202 1820H28V1268.8H202V1437.5Q218.2 1346.5 265.8 1300.1Q313.2 1253.8 390.2 1253.8Q477 1253.8 520.8 1314.1Q564.5 1374.5 564.5 1493.8V1820H390.5V1531.2Q390.5 1467 368.2 1435.2Q346 1403.5 300.5 1403.5Q252.5 1403.5 227.2 1436.9Q202 1470.2 202 1535.2Z M607.2 1475.8Q607.2 1424.2 626.1 1383.2Q645 1342.2 680.2 1313.4Q715.5 1284.5 765.9 1269.1Q816.2 1253.8 879.2 1253.8Q943.5 1253.8 993.8 1269.9Q1044 1286 1078.8 1316.6Q1113.5 1347.2 1131.8 1391.8Q1150 1436.2 1150 1493V1820H976V1682.5Q967.2 1717.8 948.9 1746Q930.5 1774.2 904.1 1794Q877.8 1813.8 844.4 1824.4Q811 1835 772.2 1835Q731.5 1835 698.1 1823.4Q664.8 1811.8 640.9 1790.6Q617 1769.5 604 1739.9Q591 1710.2 591 1674Q591 1634.2 606.9 1602.9Q622.8 1571.5 653.1 1550Q683.5 1528.5 727.4 1517.1Q771.2 1505.8 827 1505.8H976V1493Q976 1467.2 969.4 1447.1Q962.8 1427 949.9 1413.1Q937 1399.2 918.2 1392Q899.5 1384.8 875 1384.8Q850.5 1384.8 832.8 1391Q815 1397.2 803.4 1408.9Q791.8 1420.5 786.1 1437.4Q780.5 1454.2 780.5 1475.8ZM850.5 1599.8Q808.5 1599.8 787.1 1613.6Q765.8 1627.5 765.8 1654.8Q765.8 1682 787 1697Q808.2 1712 847.2 1712Q874.8 1712 898.2 1704.6Q921.8 1697.2 939 1684.5Q956.2 1671.8 966.1 1654.2Q976 1636.8 976 1616.5V1599.8Z M1180.5 1544.2Q1180.5 1500 1190 1461.4Q1199.5 1422.8 1217.2 1390.4Q1235 1358 1260.4 1332.6Q1285.8 1307.2 1317.4 1289.8Q1349 1272.2 1386.2 1263Q1423.5 1253.8 1465 1253.8Q1506.8 1253.8 1544 1263Q1581.2 1272.2 1612.8 1289.8Q1644.2 1307.2 1669.6 1332.6Q1695 1358 1712.8 1390.4Q1730.5 1422.8 1740 1461.4Q1749.5 1500 1749.5 1544.2Q1749.5 1588.5 1740 1627.2Q1730.5 1666 1712.8 1698.2Q1695 1730.5 1669.6 1755.9Q1644.2 1781.2 1612.8 1798.9Q1581.2 1816.5 1544 1825.8Q1506.8 1835 1465 1835Q1423.5 1835 1386.2 1825.8Q1349 1816.5 1317.4 1798.9Q1285.8 1781.2 1260.4 1755.9Q1235 1730.5 1217.2 1698.2Q1199.5 1666 1190 1627.2Q1180.5 1588.5 1180.5 1544.2ZM1356 1544.2Q1356 1578.5 1363.2 1604.9Q1370.5 1631.2 1384.5 1649.1Q1398.5 1667 1418.8 1676.1Q1439 1685.2 1465.2 1685.2Q1491.5 1685.2 1511.8 1676.1Q1532 1667 1545.9 1649.1Q1559.8 1631.2 1566.9 1604.9Q1574 1578.5 1574 1544.2Q1574 1510 1566.9 1483.6Q1559.8 1457.2 1545.9 1439.5Q1532 1421.8 1511.8 1412.6Q1491.5 1403.5 1465.2 1403.5Q1439 1403.5 1418.8 1412.6Q1398.5 1421.8 1384.5 1439.5Q1370.5 1457.2 1363.2 1483.6Q1356 1510 1356 1544.2Z M1955.8 1684H2273V1820H1763.2V1675.5L2054 1404.8H1773V1268.8H2253.8V1413.2Z M2304 1475.8Q2304 1424.2 2322.9 1383.2Q2341.8 1342.2 2377 1313.4Q2412.2 1284.5 2462.6 1269.1Q2513 1253.8 2576 1253.8Q2640.2 1253.8 2690.5 1269.9Q2740.8 1286 2775.5 1316.6Q2810.2 1347.2 2828.5 1391.8Q2846.8 1436.2 2846.8 1493V1820H2672.8V1682.5Q2664 1717.8 2645.6 1746Q2627.2 1774.2 2600.9 1794Q2574.5 1813.8 2541.1 1824.4Q2507.8 1835 2469 1835Q2428.2 1835 2394.9 1823.4Q2361.5 1811.8 2337.6 1790.6Q2313.8 1769.5 2300.8 1739.9Q2287.8 1710.2 2287.8 1674Q2287.8 1634.2 2303.6 1602.9Q2319.5 1571.5 2349.9 1550Q2380.2 1528.5 2424.1 1517.1Q2468 1505.8 2523.8 1505.8H2672.8V1493Q2672.8 1467.2 2666.1 1447.1Q2659.5 1427 2646.6 1413.1Q2633.8 1399.2 2615 1392Q2596.2 1384.8 2571.8 1384.8Q2547.2 1384.8 2529.5 1391Q2511.8 1397.2 2500.1 1408.9Q2488.5 1420.5 2482.9 1437.4Q2477.2 1454.2 2477.2 1475.8ZM2547.2 1599.8Q2505.2 1599.8 2483.9 1613.6Q2462.5 1627.5 2462.5 1654.8Q2462.5 1682 2483.8 1697Q2505 1712 2544 1712Q2571.5 1712 2595 1704.6Q2618.5 1697.2 2635.8 1684.5Q2653 1671.8 2662.9 1654.2Q2672.8 1636.8 2672.8 1616.5V1599.8Z M3063.2 1214H2887.2V1080H3063.2ZM3062.2 1772.8Q3062.2 1841 3049.2 1888.8Q3036.2 1936.5 3007.9 1966.8Q2979.5 1997 2934.5 2010.8Q2889.5 2024.5 2825.2 2024.5H2803.5V1884.5H2819.5Q2843 1884.5 2856.8 1877.1Q2870.5 1869.8 2877.5 1857.5Q2884.5 1845.2 2886.4 1829.6Q2888.2 1814 2888.2 1797.5V1268.8H3062.2Z M3505.2 1820H3331.2V1268.8H3505.2V1437.5Q3521.5 1346.5 3569 1300.1Q3616.5 1253.8 3693.5 1253.8Q3780.2 1253.8 3824 1314.1Q3867.8 1374.5 3867.8 1493.8V1820H3693.8V1531.2Q3693.8 1467 3671.5 1435.2Q3649.2 1403.5 3603.8 1403.5Q3555.8 1403.5 3530.5 1436.9Q3505.2 1470.2 3505.2 1535.2Z M3898.2 1544.2Q3898.2 1500 3907.8 1461.4Q3917.2 1422.8 3935 1390.4Q3952.8 1358 3978.1 1332.6Q4003.5 1307.2 4035.1 1289.8Q4066.8 1272.2 4104 1263Q4141.2 1253.8 4182.8 1253.8Q4224.5 1253.8 4261.8 1263Q4299 1272.2 4330.5 1289.8Q4362 1307.2 4387.4 1332.6Q4412.8 1358 4430.5 1390.4Q4448.2 1422.8 4457.8 1461.4Q4467.2 1500 4467.2 1544.2Q4467.2 1588.5 4457.8 1627.2Q4448.2 1666 4430.5 1698.2Q4412.8 1730.5 4387.4 1755.9Q4362 1781.2 4330.5 1798.9Q4299 1816.5 4261.8 1825.8Q4224.5 1835 4182.8 1835Q4141.2 1835 4104 1825.8Q4066.8 1816.5 4035.1 1798.9Q4003.5 1781.2 3978.1 1755.9Q3952.8 1730.5 3935 1698.2Q3917.2 1666 3907.8 1627.2Q3898.2 1588.5 3898.2 1544.2ZM4073.8 1544.2Q4073.8 1578.5 4081 1604.9Q4088.2 1631.2 4102.2 1649.1Q4116.2 1667 4136.5 1676.1Q4156.8 1685.2 4183 1685.2Q4209.2 1685.2 4229.5 1676.1Q4249.8 1667 4263.6 1649.1Q4277.5 1631.2 4284.6 1604.9Q4291.8 1578.5 4291.8 1544.2Q4291.8 1510 4284.6 1483.6Q4277.5 1457.2 4263.6 1439.5Q4249.8 1421.8 4229.5 1412.6Q4209.2 1403.5 4183 1403.5Q4156.8 1403.5 4136.5 1412.6Q4116.2 1421.8 4102.2 1439.5Q4088.2 1457.2 4081 1483.6Q4073.8 1510 4073.8 1544.2Z M4742.2 1253.8Q4805.2 1253.8 4854.8 1267.2Q4904.2 1280.8 4938.4 1306.2Q4972.5 1331.8 4990.4 1368.2Q5008.2 1404.8 5008.2 1450.8H4836Q4836 1414.2 4813.5 1394.2Q4791 1374.2 4746.8 1374.2Q4728 1374.2 4712.4 1377.9Q4696.8 1381.5 4685.5 1388.1Q4674.2 1394.8 4668.1 1404.1Q4662 1413.5 4662 1424.8Q4662 1439.2 4670.2 1448.6Q4678.5 1458 4693 1464.1Q4707.5 1470.2 4726.9 1474.2Q4746.2 1478.2 4768.8 1482.2L4805.8 1488.8Q4827.5 1492.5 4852.1 1497.5Q4876.8 1502.5 4900.9 1510.4Q4925 1518.2 4947.1 1530.1Q4969.2 1542 4986.1 1559.5Q5003 1577 5013.1 1601.1Q5023.2 1625.2 5023.2 1658Q5023.2 1700.2 5005.5 1733.1Q4987.8 1766 4953.6 1788.6Q4919.5 1811.2 4869.9 1823.1Q4820.2 1835 4756.2 1835Q4688.8 1835 4637.1 1821.8Q4585.5 1808.5 4550.5 1782.9Q4515.5 1757.2 4497.5 1719.8Q4479.5 1682.2 4479.5 1633.8H4651.8Q4651.8 1672.5 4677.2 1692.8Q4702.8 1713 4754.8 1713Q4777 1713 4794.8 1709.4Q4812.5 1705.8 4825 1699Q4837.5 1692.2 4844.2 1682.5Q4851 1672.8 4851 1660.5Q4851 1645.2 4843.2 1635.6Q4835.5 1626 4820.9 1619.6Q4806.2 1613.2 4785.2 1608.9Q4764.2 1604.5 4737.8 1599.8L4700.8 1593Q4680.8 1589.5 4657.4 1584.8Q4634 1580 4610.6 1572.2Q4587.2 1564.5 4565.4 1553Q4543.5 1541.5 4526.8 1524.4Q4510 1507.2 4500 1483.6Q4490 1460 4490 1428Q4490 1387.2 4507.2 1355Q4524.5 1322.8 4556.9 1300.2Q4589.2 1277.8 4636.1 1265.8Q4683 1253.8 4742.2 1253.8Z M5227.8 1214H5051.8V1080H5227.8ZM5226.8 1820H5052.8V1268.8H5226.8Z M5272 1475.8Q5272 1424.2 5290.9 1383.2Q5309.8 1342.2 5345 1313.4Q5380.2 1284.5 5430.6 1269.1Q5481 1253.8 5544 1253.8Q5608.2 1253.8 5658.5 1269.9Q5708.8 1286 5743.5 1316.6Q5778.2 1347.2 5796.5 1391.8Q5814.8 1436.2 5814.8 1493V1820H5640.8V1682.5Q5632 1717.8 5613.6 1746Q5595.2 1774.2 5568.9 1794Q5542.5 1813.8 5509.1 1824.4Q5475.8 1835 5437 1835Q5396.2 1835 5362.9 1823.4Q5329.5 1811.8 5305.6 1790.6Q5281.8 1769.5 5268.8 1739.9Q5255.8 1710.2 5255.8 1674Q5255.8 1634.2 5271.6 1602.9Q5287.5 1571.5 5317.9 1550Q5348.2 1528.5 5392.1 1517.1Q5436 1505.8 5491.8 1505.8H5640.8V1493Q5640.8 1467.2 5634.1 1447.1Q5627.5 1427 5614.6 1413.1Q5601.8 1399.2 5583 1392Q5564.2 1384.8 5539.8 1384.8Q5515.2 1384.8 5497.5 1391Q5479.8 1397.2 5468.1 1408.9Q5456.5 1420.5 5450.9 1437.4Q5445.2 1454.2 5445.2 1475.8ZM5515.2 1599.8Q5473.2 1599.8 5451.9 1613.6Q5430.5 1627.5 5430.5 1654.8Q5430.5 1682 5451.8 1697Q5473 1712 5512 1712Q5539.5 1712 5563 1704.6Q5586.5 1697.2 5603.8 1684.5Q5621 1671.8 5630.9 1654.2Q5640.8 1636.8 5640.8 1616.5V1599.8Z M6026.8 1820H5858.8V1646H6026.8Z"/></svg></h2>
-<p class="intro">Tričko pre účastníkov, postavené tak, aby prežilo ročník. Vpredu je len bajt a názov. Vzadu je sám Byte, nakreslený priamo z tej istej 3D skice ako maskot z hero sekcie a rozdelený do dvoch sít.</p>
-<figure class="shot"><img width="1700" height="1175" loading="lazy" src="../assets/tee-art.webp" alt="Potlač chrbta: hlava a krk draka ako biele a červené pláty s poltónovým rozpadom, pod nimi bajt a znak na ľavú hruď"></figure>
+<p class="intro">Tričko pre účastníkov, postavené tak, aby prežilo ročník. Vpredu je len bajt a názov. Vzadu je sám vtip: rekurzívne volanie zo sandboxu, opakované a odsadzované, kým nedôjde zásobník, a na jeho konci hlava draka Byte.</p>
+<figure class="shot"><img width="1700" height="1175" loading="lazy" src="../assets/tee-art.webp" alt="Potlač chrbta: jeden riadok kódu opakovaný a odsadzovaný smerom nadol, kým sa nerozpadne do poltónových bodov, hlava draka zahryznutá do posledného riadku a znak na hruď"></figure>
 <div class="vgrid">
 <article class="vcard" style="border-color:#E0275347"><span class="num" style="color:#E02753">01</span><h3>Nosí sa aj po podujatí</h3><p>Žiadny dátum, žiadne číslo ročníka, žiadna stena sponzorov. Nič na tričku ho neviaže na jeden víkend, takže ostáva v rotácii. Jediná stopa je 1101 1011 pod bajtom: 0xDB, pre toho, kto číta šestnástkovú sústavu.</p></article>
-<article class="vcard" style="border-color:#8B006047"><span class="num" style="color:#8B0060">02</span><h3>Kreslené z modelu, nie trasované</h3><p>Potlač chrbta je maskot z hero sekcie premietnutý priamo z jeho 3D skice. Každý plát je polygón, takže grafika je vektor v akejkoľvek veľkosti a obe farby sa čisto rozdelia. Nič nie je obkreslené z renderu.</p></article>
-<article class="vcard" style="border-color:#699DED47"><span class="num" style="color:#699DED">03</span><h3>Dve sitá, žiadne prechody</h3><p>Biela a Pantone 192 C na námorníckom tričku. Hĺbku robí poltónový raster pod 45 stupňami, asi 8 liniek na palec: dosť hrubý na to, aby bol bod vidieť zámerne, a dosť odolný na to, aby na bavlne držal.</p></article>
-<article class="vcard" style="border-color:#3054AD47"><span class="num" style="color:#3054AD">04</span><h3>Glitch je ten vtip</h3><p>Tri pásy grafiky sú posunuté nabok a krk sa rozpadá do bodov. Je to pretečenie zásobníka z kódu v hero sekcii, vytlačené. Tričko hovorí ten istý vtip ako web bez toho, aby zopakovalo čo i len slovo.</p></article>
+<article class="vcard" style="border-color:#8B006047"><span class="num" style="color:#8B0060">02</span><h3>Grafikou je ten vtip</h3><p>Na chrbte je jeden riadok z kódu v hero sekcii, opakovaný a odsadzovaný, kým nedôjde zásobník volaní a písmo sa nerozpadne do bodov. Kto už niekedy pretiekol zásobník, prečíta to cez celú miestnosť. Ostatní nevidia žiadne logo.</p></article>
+<article class="vcard" style="border-color:#699DED47"><span class="num" style="color:#699DED">03</span><h3>Byte si hryzie do chvosta</h3><p>Hlava je silueta samotného maskota, vzatá priamo z tej istej 3D skice ako v hero sekcii a umiestnená tam, kde zásobník končí. Chybová hláška hovorí, že si drak zahryzol do vlastného chvosta. Tričko to ukazuje namiesto toho, aby to písalo.</p></article>
+<article class="vcard" style="border-color:#3054AD47"><span class="num" style="color:#3054AD">04</span><h3>Dve sitá, žiadne prechody</h3><p>Biela a Pantone 192 C na námorníckom tričku. Rozpad na konci zásobníka je skutočný poltónový raster pod 45 stupňami, asi 8 liniek na palec: dosť hrubý na to, aby bol bod vidieť zámerne, a dosť odolný na to, aby na bavlne držal.</p></article>
 </div>
 <figure class="process"><img width="1760" height="1000" loading="lazy" src="../assets/tee-flats.webp" alt="Technický nákres predku a chrbta s umiestnením potlače a rozmermi"><figcaption><span class="mono">Umiestnenie</span>Potlač chrbta 300 x 380 mm, na stred, 92 mm pod golierovým švom. Znak na hrudi 80 x 26 mm, 148 mm pod najvyšším bodom ramena, 88 mm od stredu. Zobrazená je veľkosť L; potlač chrbta sa zmenšuje na 260 mm pre S a zväčšuje na 320 mm pre XXL, znak na hrudi ostáva 80 mm vo všetkých veľkostiach.</figcaption></figure>
 <div class="build">
